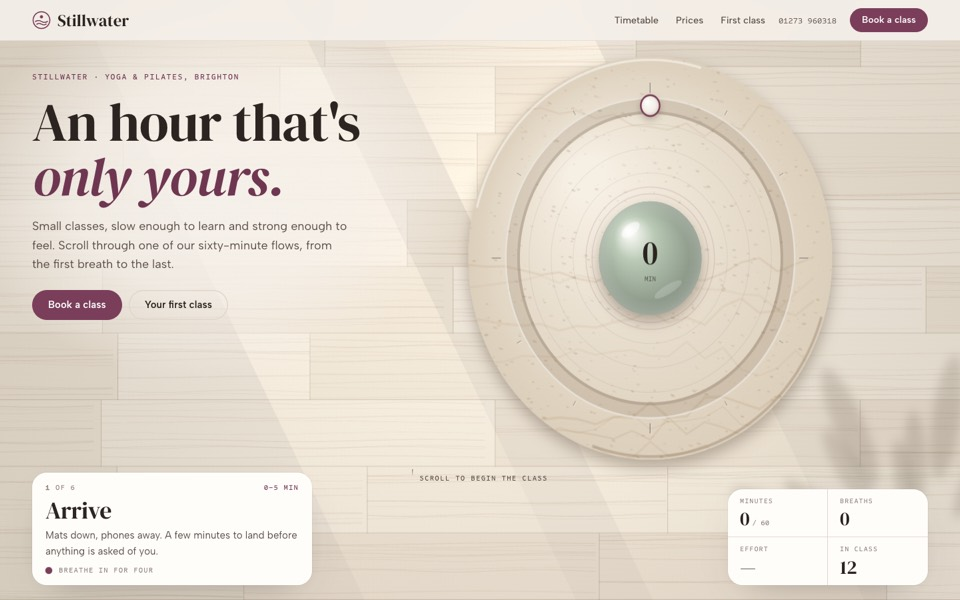
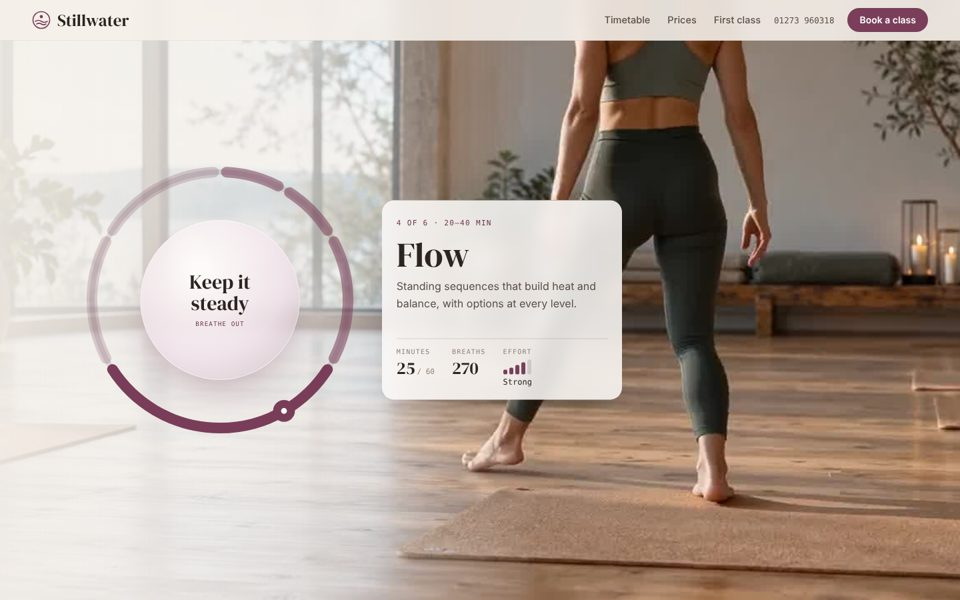
Stillwater redesigned v5: the real class plays beside a breathing orb that swells at each phase's pace, the hour marked round it
Claude-Session: https://claude.ai/code/session_0133g3z4wqTvWj4LLKkZ92ba

diff --git a/design-packages/design/stillwater/template.html b/design-packages/design/stillwater/template.html
@@ -1,11 +1,13 @@
 <!doctype html><html><head><meta charset=utf8><meta name=viewport content="width=device-width,initial-scale=1,viewport-fit=cover"><style>:root{color-scheme:light;box-sizing:border-box;padding-top:env(safe-area-inset-top,0px);padding-bottom:env(safe-area-inset-bottom,0px)}html{scroll-padding-top:env(safe-area-inset-top,0px)}body{margin:0;padding:0;font:14px -apple-system,BlinkMacSystemFont,sans-serif;background:#fff;color:#000}img{max-width:100%}[hidden]:not([hidden=until-found i]){display:none!important}</style></head><body>
 <title>{{business.name}}</title>
+<meta name="description" content="{{hero.lede|attr}}">
 <link rel="preconnect" href="https://fonts.googleapis.com">
 <link rel="preconnect" href="https://fonts.gstatic.com" crossorigin>
 <link href="https://fonts.googleapis.com/css2?family=DM+Serif+Display:ital@0;1&family=Albert+Sans:wght@400;500;600;700&family=Sometype+Mono:wght@400;500&display=swap" rel="stylesheet">
 <style>
-/* Layout: a yoga and pilates studio. One pinned class drawn as a clock: a ring that fills phase by phase (settle,
-   breathe, warm up, flow, peak, rest) with a breathing circle inside and the effort traced round the edge; then what
+/* Layout: a yoga and pilates studio. The real class plays as you scroll (the studio's own video or photos) beside a
+   breathing orb you can follow: it swells and settles at each phase's pace with the teacher's cue inside, the hour
+   marked round it phase by phase; then what
    a new student needs: the timetable with spaces left, passes and prices, and what the first class is like. */
 :root{
   color-scheme:light;
@@ -56,46 +58,62 @@ p{margin:0}
 @media (max-width:980px){.nav ul{display:none}.nav .call{margin-left:auto}}
 @media (max-width:560px){.nav .call{display:none}.nav .btn{margin-left:auto}.brand{font-size:23px}}
 
-/* hero: the class as a clock */
-.hero{position:relative;height:540vh}
+/* hero: the real class, and a breathing orb to follow with the hour marked round it */
+.hero{position:relative;height:560vh}
 .stage{position:sticky;top:0;height:100vh;height:100svh;overflow:hidden;background:var(--sand)}
-#clock{position:absolute;inset:0;width:100%;height:100%;display:block}
-.hero-copy{position:absolute;left:var(--gut);top:calc(env(safe-area-inset-top,0px) + 108px);max-width:520px;z-index:3;display:grid;gap:18px;will-change:transform,opacity}
-.hero-copy::before{content:"";position:absolute;z-index:-1;inset:-110px -150px -90px calc(-1 * var(--gut) - 60px);background:radial-gradient(closest-side,rgba(245,240,234,.96),rgba(245,240,234,.78) 55%,rgba(245,240,234,0));pointer-events:none}
-.hero h1{font-size:clamp(2.8rem,min(5.8vw,9vh),5.6rem)}
-.hero h1 em{font-style:italic;display:block;color:var(--accent-text)}
-.lede{color:var(--ink-2);max-width:42ch;font-size:clamp(16px,1.3vw,18px)}
-.hero .acts{display:flex;gap:10px;flex-wrap:wrap;margin-top:6px}
-.phase{position:absolute;z-index:4;left:var(--gut);bottom:calc(22px + env(safe-area-inset-bottom,0px));width:min(420px,calc(100% - 2*var(--gut)));padding:16px 20px;border-radius:22px;background:var(--sheet);box-shadow:0 22px 56px -30px rgba(43,36,32,.4),0 0 0 1px rgba(43,36,32,.05)}
-.phase .row{display:flex;justify-content:space-between;gap:10px;font:500 11px/1.2 var(--f-mono);letter-spacing:.1em;text-transform:uppercase;color:var(--muted)}
-.phase .min{color:var(--accent-text)}
-.phase h3{font-size:clamp(28px,2.6vw,36px);margin-top:10px}
-.phase p{color:var(--ink-2);font-size:15px;margin-top:6px;min-height:3.2em}
-.breath{display:flex;align-items:center;gap:10px;margin-top:10px;font:500 11px var(--f-mono);letter-spacing:.1em;text-transform:uppercase;color:var(--muted)}
-.breath i{display:block;width:10px;height:10px;border-radius:50%;background:var(--accent);transform:scale(var(--b,1));transition:transform .2s}
-.stats{position:absolute;z-index:4;right:var(--gut);bottom:calc(22px + env(safe-area-inset-bottom,0px));display:grid;grid-template-columns:repeat(2,minmax(0,1fr));margin:0;min-width:300px;border-radius:22px;background:var(--sheet);box-shadow:0 22px 56px -30px rgba(43,36,32,.4),0 0 0 1px rgba(43,36,32,.05);overflow:hidden}
-.stats div{padding:12px 18px;border-right:1px solid var(--line);border-bottom:1px solid var(--line);min-width:0}
-.stats div:nth-child(2n){border-right:0}
-.stats div:nth-child(n+3){border-bottom:0}
-.stats dt{font:500 10.5px/1.2 var(--f-mono);letter-spacing:.1em;text-transform:uppercase;color:var(--muted)}
-.stats dd{margin:6px 0 0;font:400 29px/1 var(--f-display);font-variant-numeric:tabular-nums;white-space:nowrap}
-.stats dd small{font:500 11px var(--f-mono);color:var(--muted);margin-left:4px}
-.hint{position:absolute;z-index:4;left:50%;bottom:calc(170px + env(safe-area-inset-bottom,0px));transform:translateX(-50%);font:500 11px var(--f-mono);letter-spacing:.12em;text-transform:uppercase;color:var(--ink-2);display:flex;align-items:center;gap:10px;pointer-events:none;white-space:nowrap}
-.hint i{display:block;width:1px;height:26px;background:linear-gradient(var(--ink-2),transparent);animation:cue 1.6s ease-in-out infinite}
+.stage .poster,#film{position:absolute;inset:0;width:100%;height:100%;display:block;z-index:0}
+.stage .poster{object-fit:cover}
+.veil{position:absolute;inset:0;z-index:1;pointer-events:none;background:linear-gradient(90deg,rgba(245,240,234,.92) 0%,rgba(245,240,234,.7) 32%,rgba(245,240,234,0) 56%)}
+.hero-copy{position:absolute;left:var(--gut);top:calc(env(safe-area-inset-top,0px) + 108px);max-width:540px;z-index:3;display:grid;gap:18px;will-change:transform,opacity}
+.hero h1{font-size:clamp(2.8rem,min(5.6vw,8.8vh),5.4rem)}
+.hero h1 em{display:block;color:var(--accent-text)}
+.lede{color:var(--ink-2);max-width:44ch;font-size:clamp(16px,1.3vw,18px)}
+.hero .acts{display:flex;gap:10px;flex-wrap:wrap;margin-top:4px}
+.split .w{display:inline-block;overflow:hidden;vertical-align:top;padding-bottom:.22em;margin-bottom:-.14em}
+.split .w{padding-right:.1em;margin-right:-.1em}
+.split .w>i{display:inline-block;font-style:inherit;animation:wrise .9s cubic-bezier(.16,1,.3,1) both}
+@keyframes wrise{from{transform:translateY(108%)}}
+.hint{position:absolute;z-index:4;left:var(--gut);bottom:calc(30px + env(safe-area-inset-bottom,0px));font:400 11px var(--f-mono);letter-spacing:.14em;text-transform:uppercase;color:var(--muted);display:flex;align-items:center;gap:10px;pointer-events:none}
+.hint i{display:block;width:1px;height:22px;background:linear-gradient(var(--muted),transparent);animation:cue 1.6s ease-in-out infinite}
 @keyframes cue{0%{transform:scaleY(.2);transform-origin:top}50%{transform:scaleY(1);transform-origin:top}100%{transform:scaleY(.2);transform-origin:bottom}}
+/* the orb: breathes at the phase's pace; the hour round it, a phase an arc, a bead where the class has got to */
+.orbw{position:absolute;z-index:3;left:clamp(32px,9vw,150px);top:50%;width:min(46vh,400px);aspect-ratio:1;transform:translateY(-50%);opacity:0;transition:opacity .6s}
+.orbw.on{opacity:1}
+.orbw svg{position:absolute;inset:0;width:100%;height:100%;overflow:visible}
+.orbw .tr{fill:none;stroke:rgba(43,36,32,.12);stroke-width:2}
+.orbw .ph{fill:none;stroke:var(--accent);stroke-width:4;stroke-linecap:round;opacity:.22;transition:opacity .4s}
+.orbw .ph.done{opacity:.55}.orbw .ph.now{opacity:1}
+.orbw .bead{fill:var(--sheet);stroke:var(--accent);stroke-width:3}
+.orb{position:absolute;inset:16%;border-radius:50%;display:grid;place-items:center;text-align:center;padding:14%;background:radial-gradient(circle at 38% 32%,rgba(255,253,250,.95),rgba(241,226,234,.82) 58%,rgba(122,62,90,.22));box-shadow:0 30px 80px -30px rgba(122,62,90,.55),inset 0 0 0 1px rgba(255,255,255,.6);backdrop-filter:blur(10px);-webkit-backdrop-filter:blur(10px);transform:scale(var(--b,.8))}
+.orb b{display:block;font:400 clamp(22px,2.4vw,34px)/1.05 var(--f-display);color:var(--ink)}
+.orb span{display:block;margin-top:10px;font:500 10.5px/1.3 var(--f-mono);letter-spacing:.12em;text-transform:uppercase;color:var(--accent-text)}
+/* the phase in hand and the hour so far */
+.ph-say{position:absolute;z-index:3;left:calc(clamp(32px,9vw,150px) + min(46vh,400px) + clamp(24px,3vw,48px));top:50%;transform:translateY(-50%);width:min(360px,30vw);padding:20px 22px;border-radius:18px;background:rgba(255,253,250,.86);backdrop-filter:blur(12px);-webkit-backdrop-filter:blur(12px);box-shadow:0 24px 60px -34px rgba(43,36,32,.5);opacity:0;transition:opacity .5s}
+.ph-say.on{opacity:1}
+.ph-say .k{font:500 11px/1.2 var(--f-mono);letter-spacing:.12em;text-transform:uppercase;color:var(--accent-text)}
+.ph-say h3{font:400 clamp(34px,3.6vw,52px)/1 var(--f-display);margin-top:10px}
+.ph-say p{margin-top:10px;color:var(--ink-2);font-size:16px;min-height:4.6em}
+.ph-say dl{display:flex;gap:26px;margin:16px 0 0;padding-top:14px;border-top:1px solid rgba(43,36,32,.14)}
+.ph-say dt{font:400 10px/1.2 var(--f-mono);letter-spacing:.12em;text-transform:uppercase;color:var(--muted)}
+.ph-say dd{margin:5px 0 0;font:400 26px/1 var(--f-display);font-variant-numeric:tabular-nums;white-space:nowrap}
+.ph-say dd small{font:400 11px var(--f-mono);color:var(--muted);margin-left:3px}
+.effort{display:flex;align-items:flex-end;gap:3px;height:22px}
+.effort i{width:6px;border-radius:2px;background:rgba(43,36,32,.14);transition:background .3s}
+.effort i:nth-child(1){height:30%}.effort i:nth-child(2){height:47%}.effort i:nth-child(3){height:64%}.effort i:nth-child(4){height:82%}.effort i:nth-child(5){height:100%}
+.effort i.on{background:var(--accent)}
+@media (max-width:1100px) and (min-width:821px){.ph-say{left:auto;right:var(--gut);width:300px}}
 @media (max-width:820px){
-  .hero-copy{top:calc(env(safe-area-inset-top,0px) + 82px);max-width:none;right:var(--gut);gap:14px}
+  .veil{background:linear-gradient(180deg,rgba(245,240,234,.92) 0%,rgba(245,240,234,.66) 36%,rgba(245,240,234,0) 52%),linear-gradient(0deg,rgba(245,240,234,.92),rgba(245,240,234,0) 44%)}
+  .hero-copy{top:calc(env(safe-area-inset-top,0px) + 84px);max-width:none;right:var(--gut);gap:14px}
   .hero .acts{display:none}
-  .stats{left:var(--gut);right:var(--gut);min-width:0;grid-template-columns:minmax(0,.85fr) minmax(0,.95fr) minmax(0,1.35fr) minmax(0,.85fr);bottom:calc(214px + env(safe-area-inset-bottom,0px))}
-  .stats div{padding:9px 10px;border-bottom:0}
-  .stats div:nth-child(2n){border-right:1px solid var(--line)}
-  .stats div:last-child{border-right:0}
-  .stats dt{font-size:8.5px;letter-spacing:.04em}
-  .stats dd{font-size:clamp(19px,5.4vw,24px)}
-  .stats dd small{display:none}
-  .phase{bottom:calc(14px + env(safe-area-inset-bottom,0px));padding:14px 18px}
-  .phase p{font-size:14px;min-height:4.6em}
   .hint{display:none}
+  .orbw{left:50%;top:calc(env(safe-area-inset-top,0px) + 76px);width:min(48vw,220px);transform:translateX(-50%)}
+  .ph-say{left:var(--gut);right:var(--gut);top:auto;bottom:calc(14px + env(safe-area-inset-bottom,0px));transform:none;width:auto;padding:14px 16px;border-radius:14px}
+  .ph-say h3{font-size:32px}
+  .ph-say p{font-size:14px;min-height:4.3em}
+  .ph-say dd{font-size:22px}
+  .orb b{font-size:17px}
+  .orb span{font-size:9px}
 }
 
 /* sections */
@@ -196,9 +214,11 @@ footer{background:var(--ink);color:#fff;padding:clamp(70px,9vw,120px) var(--gut)
 </nav>
 
 <main>
-<section class="hero" id="top" aria-label="One class from arriving to rest, scroll to run it">
+<section class="hero" id="top" aria-label="One class from arriving to rest; scroll to run it">
   <div class="stage" id="stage">
-    <canvas id="clock" aria-hidden="true"></canvas>
+{{#if $.film.poster}}    <img class="poster" src="{{$.film.poster|attr}}" alt="" aria-hidden="true">
+{{/if}}    <canvas id="film" role="img" aria-label="A class at {{brand.name|attr}}, from a seated breath to standing poses"></canvas>
+    <div class="veil" aria-hidden="true"></div>
     <div class="hero-copy" id="heroCopy">
       <p class="eyebrow">{{hero.eyebrow}}</p>
       <h1>{{hero.title}} <em>{{hero.titleEm}}</em></h1>
@@ -206,17 +226,19 @@ footer{background:var(--ink);color:#fff;padding:clamp(70px,9vw,120px) var(--gut)
       <div class="acts"><a class="btn" href="#timetable">{{hero.cta}}</a><a class="btn ghost" href="#first">{{hero.cta2}}</a></div>
     </div>
     <div class="hint" id="hint"><i></i>{{hero.hint}}</div>
-    <dl class="stats" id="stats" aria-live="off">
-      <div><dt>Minutes</dt><dd id="sMin">0<small>/ {{class.length}}</small></dd></div>
-      <div><dt>Breaths</dt><dd id="sBreaths">0</dd></div>
-      <div><dt>Effort</dt><dd id="sEffort">—</dd></div>
-      <div><dt>In class</dt><dd id="sPeople">{{class.size}}</dd></div>
-    </dl>
-    <div class="phase" id="phase" aria-live="polite">
-      <div class="row"><span><b id="pNum">1</b> of 6</span><span class="min" id="pMin">{{stages.0.from}}–{{stages.0.to}} min</span></div>
+    <div class="orbw" id="orbw" aria-hidden="true">
+      <svg viewBox="0 0 100 100"><circle class="tr" cx="50" cy="50" r="48"/><g id="arcs"></g><circle class="bead" id="bead" cx="50" cy="2" r="2.6"/></svg>
+      <div class="orb" id="orb"><div><b id="oSay">{{stages.0.cue}}</b><span id="oIn">Breathe in</span></div></div>
+    </div>
+    <div class="ph-say" id="say" aria-live="polite">
+      <span class="k"><span id="pNum">1</span> of 6 · <span id="pMin">{{stages.0.from}}–{{stages.0.to}} min</span></span>
       <h3 id="pTitle">{{stages.0.n}}</h3>
       <p id="pText">{{stages.0.c}}</p>
-      <div class="breath"><i id="pDot"></i><span id="pBreath">{{stages.0.cue}}</span></div>
+      <dl id="stats">
+        <div><dt>Minutes</dt><dd id="sMin">0<small>/ {{class.length}}</small></dd></div>
+        <div><dt>Breaths</dt><dd id="sBreaths">0</dd></div>
+        <div><dt>Effort</dt><dd><span class="effort" id="eff"><i></i><i></i><i></i><i></i><i></i></span></dd><dd id="sEffort" style="font-size:12px;font-family:var(--f-mono);margin-top:6px">—</dd></div>
+      </dl>
     </div>
   </div>
 </section>
@@ -278,124 +300,70 @@ footer{background:var(--ink);color:#fff;padding:clamp(70px,9vw,120px) var(--gut)
 (function(){
 "use strict";
 const RM = matchMedia('(prefers-reduced-motion: reduce)').matches;
-const TOUCH = matchMedia('(pointer:coarse)').matches;let gW=0,gH=0;
+const TOUCH = matchMedia('(pointer:coarse)').matches;
 const $ = s=>document.querySelector(s);
 const clamp=(v,a=0,b=1)=>Math.max(a,Math.min(b,v));
 const lerp=(a,b,t)=>a+(b-a)*t;
 const sm=t=>t*t*(3-2*t);
 const seg=(p,a,b)=>clamp((p-a)/(b-a));
 
-/* ============ THE CLASS (what the hero shows) ============ */
-// six phases: the minutes they cover, how hard they are (1 to 5) and the breath (breaths a minute, and the cue)
+/* ============ THE CLASS ============ */
 const STAGES=[
 {{$.stagesJs|raw}}
 ];
-// the class: its length in minutes, how many in the room, and how effort moves ('flow' rises and falls; 'intervals' work and rest)
 const CLASS={length:{{class.length}},size:{{class.size}},shape:{{class.shape|js}},done:{{class.done|js}}};
-// how each level of effort is named, from 1 to 5
 const EFFORT=['',{{$.effortJs|raw}}];
-const ACCENT='{{A:#7A3E5A}}';
-const HUES=['#B9C9B5','#B9C9B5','#E3C7A0','#E59A7A','#C4677A',ACCENT];
-
-/* ============ GEOMETRY ============ */
-const cv=$('#clock'), ctx=cv.getContext('2d');
-let W=0,H=0,DPR=1,mobile=false,LA=null,LB=null;
-function fit(ax,ay){const r=Math.min(ax[1]-ax[0],ay[1]-ay[0])/2;return{r:r*.82,x:(ax[0]+ax[1])/2,y:(ay[0]+ay[1])/2};}
-function layout(){W=cv.clientWidth;H=cv.clientHeight;DPR=Math.min(devicePixelRatio||1,TOUCH?1.5:2);cv.width=Math.round(W*DPR);cv.height=Math.round(H*DPR);mobile=W<820;
-  const top=Math.max(70,H*.1), st=$('#stats').getBoundingClientRect(), ph=$('#phase').getBoundingClientRect(), stg=$('#stage').getBoundingClientRect();
-  if(mobile){LA=LB=fit([W*.04,W*.96],[top,st.top-stg.top-12]);}
-  else{const cr=copy.offsetLeft+copy.offsetWidth, cb=copy.offsetTop+copy.offsetHeight, low=Math.min(st.top,ph.top)-stg.top;
-    const side=fit([cr+30,W*.97],[H*.12,Math.min(H*.84,low-20)]), under=fit([W*.05,W*.95],[cb+20,low-16]);
-    LA=side.r>=under.r*.8?side:under;LB=fit([W*.08,W*.92],[top,Math.min(st.top,ph.top-30)-stg.top-14]);}}
-
-/* the minute the scroll has reached, stage by stage */
-function minuteAt(p){for(const s of STAGES)if(p<s.w[1])return lerp(s.from,s.to,seg(p,s.w[0],s.w[1]));return CLASS.length;}
 function effortAt(m){// smooth between phases; intervals pulse within the harder phases
   let i=STAGES.findIndex(s=>m<s.to);if(i<0)i=STAGES.length-1;const s=STAGES[i], t=(m-s.from)/((s.to-s.from)||1);
   const prev=STAGES[Math.max(0,i-1)].effort;let e=t<.25&&i>0?lerp(prev,s.effort,sm(t/.25)):s.effort;
   if(CLASS.shape==='intervals'&&s.effort>=3){const k=(m-s.from)%3;e=k<2?s.effort:Math.max(1,s.effort-2.5);}
-  else e+=Math.sin(m*1.7)*.18*(s.effort>1?1:0);
   return e;}
-const ang=m=>-Math.PI/2+m/CLASS.length*Math.PI*2;
 
-/* ============ DRAWING ============ */
-function rngS(seed){let x=seed>>>0||1;return()=>{x^=x<<13;x^=x>>>17;x^=x<<5;return((x>>>0)%10000)/10000;};}
-let FLOOR=null, DISC=null;
-function buildFloor(){const f=document.createElement('canvas');f.width=cv.width;f.height=cv.height;const g=f.getContext('2d');g.setTransform(DPR,0,0,DPR,0,0);const r=rngS(3);
-  g.fillStyle='#EDE4D6';g.fillRect(0,0,W,H);const bh=Math.max(46,Math.min(W,H)/9);
-  for(let row=0;row*bh<H+bh;row++){let x=-r()*300;while(x<W){const L=260+r()*420, v=r();g.fillStyle=v<.5?`rgba(120,90,55,${.03+v*.07})`:`rgba(255,252,245,${(v-.5)*.25})`;g.fillRect(x,row*bh,L,bh);
-    for(let k=0;k<9;k++){g.strokeStyle=`rgba(130,95,60,${.05+r()*.08})`;g.lineWidth=.6+r()*.9;g.beginPath();const yy=row*bh+3+r()*(bh-6);g.moveTo(x,yy);for(let t=0;t<=L;t+=16)g.lineTo(x+t,yy+Math.sin(t/(40+k*7)+k)*1.6);g.stroke();}
-    g.fillStyle='rgba(90,65,40,.18)';g.fillRect(x+L-1,row*bh,1.2,bh);x+=L;}g.fillStyle='rgba(90,65,40,.16)';g.fillRect(0,row*bh+bh-1,W,1.2);}
-  // light from a tall window, falling across the boards
-  g.save();g.globalCompositeOperation='lighter';[[.08,.9],[.38,.9]].forEach(([x0,w0])=>{const x=W*x0;const lg=g.createLinearGradient(x,0,x+W*.35,H);lg.addColorStop(0,'rgba(255,236,200,.0)');lg.addColorStop(.3,'rgba(255,236,200,.08)');lg.addColorStop(1,'rgba(255,236,200,.02)');g.fillStyle=lg;g.beginPath();g.moveTo(x,0);g.lineTo(x+W*.22,0);g.lineTo(x+W*.22+W*.3,H);g.lineTo(x+W*.3,H);g.closePath();g.fill();});g.restore();
-  // a plant's leaves in shadow, soft-edged
-  g.save();g.shadowColor='rgba(70,55,40,.16)';g.shadowBlur=14*DPR;g.shadowOffsetX=-4000*DPR;g.fillStyle='#000';for(let i=0;i<14;i++){const a=-1.2+i*.22+r()*.2, L=H*(.18+r()*.14), bx=W*.96, by=H*.98;const tx=bx+Math.cos(a-Math.PI/2)*L, ty=by+Math.sin(a-Math.PI/2)*L;g.save();g.translate(tx+4000,ty);g.rotate(a);g.beginPath();g.ellipse(0,0,L*.09,L*.36,0,0,7);g.fill();g.restore();}g.restore();
-  const v=g.createRadialGradient(W*.55,H*.45,Math.min(W,H)*.2,W*.55,H*.45,Math.max(W,H)*.75);v.addColorStop(0,'rgba(0,0,0,0)');v.addColorStop(1,'rgba(60,45,30,.12)');g.fillStyle=v;g.fillRect(0,0,W,H);FLOOR=f;}
-function buildDisc(R0){const n=Math.ceil(R0*2.9*DPR), d=document.createElement('canvas');d.width=d.height=n;const g=d.getContext('2d');const c=n/2, R=R0*(mobile?1.16:1.32)*DPR, r=rngS(9);
-  g.save();g.shadowColor='rgba(60,45,30,.35)';g.shadowBlur=R*.08;g.shadowOffsetY=R*.035;g.fillStyle='#E9DFCF';g.beginPath();g.arc(c,c,R,0,7);g.fill();g.restore();
-  g.save();g.beginPath();g.arc(c,c,R,0,7);g.clip();const bg=g.createRadialGradient(c-R*.35,c-R*.4,R*.1,c,c,R);bg.addColorStop(0,'#F6EFE3');bg.addColorStop(1,'#DCCFBB');g.fillStyle=bg;g.fillRect(0,0,n,n);
-  for(let i=0;i<9;i++){g.strokeStyle=`rgba(170,140,100,${.08+r()*.1})`;g.lineWidth=R*(.004+r()*.01);g.beginPath();const y0=c-R+r()*R*2;g.moveTo(c-R,y0);for(let t=0;t<=1;t+=.05)g.lineTo(c-R+t*R*2,y0+Math.sin(t*6+i)*R*.04+t*R*(r()-.5)*.2);g.stroke();}
-  for(let i=0;i<700;i++){const a=r()*6.28, d=Math.sqrt(r())*R, z=R*(.0012+r()*.0045);g.fillStyle=`rgba(140,110,75,${.08+r()*.16})`;g.beginPath();g.ellipse(c+Math.cos(a)*d,c+Math.sin(a)*d,z*2.2,z,r()*.4,0,7);g.fill();}
-  g.strokeStyle='rgba(255,255,255,.5)';g.lineWidth=R*.012;g.beginPath();g.arc(c,c,R*.985,3.4,5.0);g.stroke();g.strokeStyle='rgba(100,75,50,.25)';g.lineWidth=R*.014;g.beginPath();g.arc(c,c,R*.985,.3,1.9);g.stroke();g.restore();DISC={img:d,R0};}
-function ring(c,m,time,k){const {x,y,r}=c, th=r*.11;
-  if(DISC){const sc=r/DISC.R0, n=DISC.img.width/DPR*sc;ctx.drawImage(DISC.img,x-n/2,y-n/2,n,n);}
-  // the track, the five-minute ticks
-  ctx.lineCap='butt';ctx.strokeStyle='rgba(110,85,60,.16)';ctx.lineWidth=th;ctx.beginPath();ctx.arc(x,y,r,0,Math.PI*2);ctx.stroke();ctx.strokeStyle='rgba(80,60,40,.18)';ctx.lineWidth=th*.18;ctx.beginPath();ctx.arc(x,y,r-th*.41,0,Math.PI*2);ctx.stroke();ctx.strokeStyle='rgba(255,255,255,.5)';ctx.lineWidth=th*.12;ctx.beginPath();ctx.arc(x,y,r+th*.44,0,Math.PI*2);ctx.stroke();
-  for(let t=0;t<CLASS.length;t+=5){const a=ang(t), r0=r+th*.75, r1=r+th*(t%15===0?1.35:1.05);ctx.strokeStyle='rgba(255,255,255,.6)';ctx.lineWidth=t%15===0?1.6:1;ctx.beginPath();ctx.moveTo(x+Math.cos(a)*r0+.8,y+Math.sin(a)*r0+.8);ctx.lineTo(x+Math.cos(a)*r1+.8,y+Math.sin(a)*r1+.8);ctx.stroke();ctx.strokeStyle='rgba(60,45,30,.45)';ctx.beginPath();ctx.moveTo(x+Math.cos(a)*r0,y+Math.sin(a)*r0);ctx.lineTo(x+Math.cos(a)*r1,y+Math.sin(a)*r1);ctx.stroke();
-}
-  // each phase fills in its colour as the class reaches it
-  STAGES.forEach((s,i)=>{if(m<=s.from)return;const a0=ang(s.from)+.012, a1=ang(Math.min(m,s.to))-(m>=s.to?.012:0);if(a1<=a0)return;ctx.strokeStyle=shade(HUES[s.effort],-.18);ctx.lineWidth=th*.92;ctx.beginPath();ctx.arc(x,y,r,a0,a1);ctx.stroke();ctx.strokeStyle=HUES[s.effort];ctx.lineWidth=th*.66;ctx.beginPath();ctx.arc(x,y,r-th*.08,a0,a1);ctx.stroke();ctx.strokeStyle='rgba(255,255,255,.45)';ctx.lineWidth=th*.12;ctx.beginPath();ctx.arc(x,y,r-th*.22,a0+.01,a1-.01);ctx.stroke();});
-  // phase names outside the ring, once reached
-  if(!mobile)STAGES.forEach(s=>{if(m<s.from+.5)return;const a=ang((s.from+s.to)/2), rr=r+th*3.1;ctx.globalAlpha=k*clamp((m-s.from)/2);ctx.fillStyle='#2B2420';ctx.font=`400 ${Math.round(Math.max(14,r*.075))}px "DM Serif Display",serif`;ctx.textAlign=Math.cos(a)>.25?'left':Math.cos(a)<-.25?'right':'center';ctx.textBaseline='middle';ctx.fillText(s.n,x+Math.cos(a)*rr,y+Math.sin(a)*rr);ctx.globalAlpha=1;});
-  ctx.textAlign='left';ctx.textBaseline='alphabetic';
-  // the effort, traced inside the ring
-  const inner=r-th*1.1, span=r*.32;ctx.strokeStyle='rgba(43,36,32,.08)';ctx.lineWidth=1;[1,3,5].forEach(e=>{ctx.beginPath();ctx.arc(x,y,inner-span*(1-(e-1)/4),0,Math.PI*2);ctx.stroke();});
-  if(m>0){ctx.beginPath();const steps=Math.max(2,Math.round(m*(CLASS.shape==='intervals'?12:4)));for(let i=0;i<=steps;i++){const mm=m*i/steps, a=ang(mm), rr=inner-span*(1-(effortAt(mm)-1)/4);i?ctx.lineTo(x+Math.cos(a)*rr,y+Math.sin(a)*rr):ctx.moveTo(x+Math.cos(a)*rr,y+Math.sin(a)*rr);}
-    ctx.strokeStyle=ACCENT;ctx.lineWidth=Math.max(1.5,r*.012);ctx.lineJoin='round';ctx.stroke();ctx.strokeStyle='rgba(255,255,255,.35)';ctx.lineWidth=Math.max(.6,r*.004);ctx.stroke();}
-  // the hand: where the class is now
-  const a=ang(m), hx=x+Math.cos(a)*r, hy=y+Math.sin(a)*r;ctx.save();ctx.shadowColor='rgba(60,45,30,.4)';ctx.shadowBlur=th*.5*DPR;ctx.shadowOffsetY=th*.18*DPR;const pg=ctx.createRadialGradient(hx-th*.22,hy-th*.25,0,hx,hy,th*.62);pg.addColorStop(0,'#FFFFFF');pg.addColorStop(.7,'#F3EEE6');pg.addColorStop(1,'#D8CFC2');ctx.fillStyle=pg;ctx.beginPath();ctx.arc(hx,hy,th*.62,0,7);ctx.fill();ctx.restore();ctx.strokeStyle=ACCENT;ctx.lineWidth=2.5;ctx.beginPath();ctx.arc(hx,hy,th*.62,0,7);ctx.stroke();}
-function orb(c,m,time,breath,done){const {x,y,r}=c;const i=Math.max(0,STAGES.findIndex(s=>m<s.to));const s=STAGES[i<0?STAGES.length-1:i];
-  const base=r*.36, b=RM?0:breath, rr=base*(1+.14*b);
-  const hue=HUES[Math.round(clamp(effortAt(m),1,5))];
-  ctx.save();ctx.shadowColor='rgba(60,45,30,.35)';ctx.shadowBlur=rr*.25*DPR;ctx.shadowOffsetY=rr*.12*DPR;ctx.fillStyle=shade(hue,-.2);ctx.beginPath();ctx.arc(x,y,rr,0,7);ctx.fill();ctx.restore();
-  const g=ctx.createRadialGradient(x-rr*.42,y-rr*.48,rr*.04,x-rr*.1,y-rr*.1,rr*1.05);g.addColorStop(0,'#FFFDFA');g.addColorStop(.35,hue);g.addColorStop(1,shade(hue,-.28));ctx.fillStyle=g;ctx.beginPath();ctx.arc(x,y,rr,0,7);ctx.fill();
-  {const rim=ctx.createRadialGradient(x,y,rr*.75,x,y,rr);rim.addColorStop(0,'rgba(255,255,255,0)');rim.addColorStop(1,'rgba(255,255,255,.22)');ctx.fillStyle=rim;ctx.beginPath();ctx.arc(x,y,rr,0,7);ctx.fill();ctx.save();ctx.beginPath();ctx.arc(x,y,rr,0,7);ctx.clip();ctx.fillStyle='rgba(255,255,255,.55)';ctx.beginPath();ctx.ellipse(x-rr*.38,y-rr*.5,rr*.2,rr*.1,-.6,0,7);ctx.fill();ctx.fillStyle='rgba(255,255,255,.18)';ctx.beginPath();ctx.ellipse(x+rr*.35,y+rr*.55,rr*.3,rr*.08,-.5,0,7);ctx.fill();ctx.restore();}
-  ctx.strokeStyle=`{{A:122,62,90}}${(.12+.1*b).toFixed(3)})`;ctx.lineWidth=1.5;for(let k=1;k<=2;k++){ctx.beginPath();ctx.arc(x,y,rr*(1+.12*k+.05*b),0,7);ctx.stroke();}
-  const light=effortAt(m)>=3.5;ctx.fillStyle=light?'#FFFDFA':'#2B2420';ctx.textAlign='center';ctx.textBaseline='middle';ctx.font=`400 ${Math.round(base*.62)}px "DM Serif Display",serif`;ctx.fillText(String(Math.floor(m)),x,y-base*.05);
-  ctx.font=`500 ${Math.max(10,Math.round(base*.13))}px "Sometype Mono",monospace`;ctx.fillStyle=light?'rgba(255,253,250,.75)':'rgba(43,36,32,.6)';ctx.fillText(done?CLASS.done.toUpperCase():'MIN',x,y+base*.38,base*1.6);ctx.textAlign='left';ctx.textBaseline='alphabetic';}
-function shade(hex,k){const n=parseInt(hex.slice(1),16);const f=v=>Math.round(k>0?v+(255-v)*k:v*(1+k));return`rgb(${f(n>>16&255)},${f(n>>8&255)},${f(n&255)})`;}
+/* ============ THE FILM ============ */
+const hero=$('#top'), copy=$('#heroCopy'), hint=$('#hint'), orbw=$('#orbw'), orb=$('#orb'), say=$('#say');
+const STILL=/[?&]still\b/.test(location.search), FLAT=RM||STILL;
+if(FLAT)document.documentElement.classList.add('flat');
+{{$.film.runtime|raw}}
+const film=SRFilm($('#film'),{{$.film.json|raw}},{flat:FLAT,fx:.62,fy:.5});
+let inFrame=false;try{inFrame=window.self!==window.top}catch(e){inFrame=true}
+let AUTO=inFrame&&scrollY<1&&!FLAT;
+if(AUTO)addEventListener('scroll',()=>{if(AUTO&&scrollY>=1){AUTO=false;film.poke()}},{passive:true});
 
-/* ============ HUD ============ */
+/* ============ THE HOUR ============ */
+// an arc a phase round the orb, from the minute it starts to the minute it ends, with a small gap between
+const L=CLASS.length||60, R=48, pt=a=>[50+R*Math.sin(a),50-R*Math.cos(a)];
+$('#arcs').innerHTML=STAGES.map(s=>{const a0=s.from/L*Math.PI*2+.05, a1=Math.max(a0+.01,s.to/L*Math.PI*2-.05), [x0,y0]=pt(a0), [x1,y1]=pt(a1);
+  return `<path class="ph" d="M${x0.toFixed(2)} ${y0.toFixed(2)}A${R} ${R} 0 ${a1-a0>Math.PI?1:0} 1 ${x1.toFixed(2)} ${y1.toFixed(2)}"/>`;}).join('');
+const arcs=[...$('#arcs').children], bead=$('#bead'), bars=[...$('#eff').children];
 let shown=-1;
-function hud(p,m,breath){let idx=0;STAGES.forEach((s,i)=>{if(p>=s.w[0])idx=i;});const s=STAGES[idx];
-  if(idx!==shown){shown=idx;$('#pNum').textContent=idx+1;$('#pTitle').textContent=s.n;$('#pText').textContent=s.c;$('#pMin').textContent=`${s.from}–${s.to} min`;$('#pBreath').textContent=s.cue;}
-  $('#pDot').style.setProperty('--b',(1+.5*breath).toFixed(2));
-  $('#sMin').innerHTML=`${Math.floor(m)}<small>/ ${CLASS.length}</small>`;
-  let br=0;for(const st of STAGES){if(m<=st.from)break;br+=(Math.min(m,st.to)-st.from)*st.bpm;}$('#sBreaths').textContent=Math.round(br);
-  $('#sEffort').textContent=m>0?EFFORT[Math.round(clamp(effortAt(m),1,5))]:'—';$('#sPeople').textContent=CLASS.size;}
 
 /* ============ FRAME ============ */
-const hero=$('#top'), copy=$('#heroCopy'), hint=$('#hint');
 let cur=0;const t0=performance.now();
-function frame(p,time){ctx.setTransform(1,0,0,1,0,0);if(!FLOOR||FLOOR.width!==cv.width||FLOOR.height!==cv.height){buildFloor();buildDisc(Math.max(LA.r,LB.r));}ctx.drawImage(FLOOR,0,0);ctx.setTransform(DPR,0,0,DPR,0,0);
-  const k=mobile?seg(p,.01,.05):seg(p,.06,.12), mv=sm(mobile?k:seg(p,.05,.14));
-  const c={x:lerp(LA.x,LB.x,mv),y:lerp(LA.y,LB.y,mv),r:lerp(LA.r,LB.r,mv)};
-  const m=minuteAt(p);const i=Math.max(0,STAGES.findIndex(s=>m<s.to));const bpm=STAGES[i].bpm||8;
-  const breath=RM?0:Math.sin(time*Math.PI*2*bpm/60);
-  ctx.globalAlpha=mobile?.25+.75*k:1;ring(c,m,time,mobile?1:1);orb(c,m,time,breath,p>=.995);ctx.globalAlpha=1;
-  copy.style.opacity=(1-k).toFixed(3);copy.style.transform=`translateY(${(-k*24).toFixed(1)}px)`;copy.style.visibility=k>=1?'hidden':'visible';
-  hint.style.opacity=(1-seg(p,0,.03)).toFixed(3);hud(p,m,breath);}
 function target(){const r=hero.getBoundingClientRect();return clamp(-r.top/(r.height-innerHeight));}
-// phones (Safari above all) give up on pages that redraw and re-make big canvases too often: draw only while the
-// hero is on screen, at a gentler rate while nothing is scrolling, and lay out again only when the canvas's size changes
+const mobile=()=>innerWidth<820;
+function frame(p,time){
+  const P=FLAT?1:p;
+  film.draw(FLAT?1:AUTO?(time/Math.max(4,film.seconds()))%1:clamp(seg(P,.02,.9)),time);
+  const k=mobile()?seg(p,.01,.05):seg(p,.06,.12);copy.style.opacity=(1-k).toFixed(3);copy.style.transform=`translateY(${(-k*24).toFixed(1)}px)`;copy.style.visibility=k>=1?'hidden':'visible';
+  hint.style.opacity=(1-seg(p,0,.03)).toFixed(3);const on=FLAT||k>=1;orbw.classList.toggle('on',on);say.classList.toggle('on',on);
+  let idx=0;STAGES.forEach((s,i)=>{if(P>=s.w[0])idx=i;});const s=STAGES[idx];
+  if(idx!==shown){shown=idx;$('#pNum').textContent=idx+1;$('#pTitle').textContent=s.n;$('#pText').textContent=s.c;$('#pMin').textContent=`${s.from}–${s.to} min`;$('#oSay').textContent=s.cue;}
+  const m=P>=1?L:lerp(s.from,s.to,seg(P,s.w[0],s.w[1]));
+  arcs.forEach((el,i)=>{el.classList.toggle('done',i<idx);el.classList.toggle('now',i===idx);});
+  const a=m/L*Math.PI*2, [bx,by]=pt(a);bead.setAttribute('cx',bx.toFixed(2));bead.setAttribute('cy',by.toFixed(2));
+  // the orb breathes in real time at the phase's breaths a minute: in on the swell, out as it settles
+  const bpm=Math.max(3,s.bpm||6), ph=RM?0:(time*bpm/60)%1, swell=ph<.4?sm(ph/.4):1-sm((ph-.4)/.6);
+  orb.style.setProperty('--b',(FLAT?.92:.78+.2*swell).toFixed(3));$('#oIn').textContent=P>=1&&CLASS.done?CLASS.done:FLAT?`${bpm} breaths a minute`:ph<.4?'Breathe in':'Breathe out';
+  $('#sMin').innerHTML=`${Math.floor(m)}<small>/ ${L}</small>`;
+  let br=0;for(const st of STAGES){if(m<=st.from)break;br+=(Math.min(m,st.to)-st.from)*st.bpm;}$('#sBreaths').textContent=Math.round(br);
+  const e=m>0?Math.round(clamp(effortAt(m),1,5)):0;bars.forEach((b,i)=>b.classList.toggle('on',i<e));$('#sEffort').textContent=e?EFFORT[e]:'—';
+}
 let gLast=-1e9,gForce=90;
-addEventListener('resize',()=>{gForce=30;});if(document.fonts&&document.fonts.ready)document.fonts.ready.then(()=>{gForce=30;});
-function gate(now){const r=cv.getBoundingClientRect();if(r.bottom<=0||r.top>=innerHeight)return true;if(gForce>0){gForce--;gLast=now;return false;}
-  if(Math.abs(target()-cur)>.0004){gLast=now;return false;}if(RM||now-gLast<(TOUCH?50:33))return true;gLast=now;return false;}
+addEventListener('resize',()=>{gForce=30;film.size();});if(document.fonts&&document.fonts.ready)document.fonts.ready.then(()=>{gForce=30;});
+// the orb keeps breathing while the page is still, so the frame is drawn every time while the hero is on screen
+function gate(now){if(AUTO)return false;const r=$('#stage').getBoundingClientRect();if(r.bottom<=0||r.top>=innerHeight)return true;if(gForce>0){gForce--;gLast=now;return false;}
+  if(Math.abs(target()-cur)>.0004){gLast=now;return false;}if(RM)return true;if(now-gLast<(TOUCH?50:33))return true;gLast=now;return false;}
 function loop(now){if(gate(now)){requestAnimationFrame(loop);return;}const time=(now-t0)/1000, t=target();cur=RM?t:cur+(t-cur)*.14;if(Math.abs(t-cur)<.0004)cur=t;frame(cur,RM?0:time);requestAnimationFrame(loop);}
-layout();
-let rz;addEventListener('resize',()=>{clearTimeout(rz);rz=setTimeout(()=>{const w=cv.clientWidth,h=cv.clientHeight;if(w===gW&&h===gH)return;gW=w;gH=h;layout();},120);});
-if(document.fonts&&document.fonts.ready)document.fonts.ready.then(layout);
 requestAnimationFrame(loop);
 })();
 </script>
@@ -464,4 +432,14 @@ week();calc();
 })();
 </script>
 
+<script>
+/* the title arrives word by word */
+(function(){if(matchMedia('(prefers-reduced-motion: reduce)').matches||/[?&]still\b/.test(location.search))return;const h=document.querySelector('[data-split]')||document.querySelector('main h1:not(.sr)');if(!h)return;let k=0;
+ // each word in its own clipped box; a block inside the title (a second line) keeps its place and has its words split too
+ const unit=(box,el)=>{const w=document.createElement('span');w.className='w';el.style.animationDelay=(150+k++*80)+'ms';w.appendChild(el);box.appendChild(w)};
+ const split=box=>{const parts=[...box.childNodes],blk=parts.map(n=>n.nodeType===1&&getComputedStyle(n).display==='block');box.textContent='';
+  parts.forEach((n,j)=>{if(n.nodeType===3)n.textContent.split(/(\s+)/).forEach(x=>{if(!x)return;if(/^\s+$/.test(x)){box.appendChild(document.createTextNode(' '));return}const i=document.createElement('i');i.textContent=x;unit(box,i)});
+   else if(n.nodeType===1){if(blk[j]){box.appendChild(n);if(n.children.length===0)split(n);return}const i=document.createElement('i');i.appendChild(n);unit(box,i)}});};
+ split(h);h.classList.add('split')})();
+</script>
 </body></html>

diff --git a/design-packages/design/stillwater/hooks.js b/design-packages/design/stillwater/hooks.js
@@ -5,6 +5,7 @@
 'use strict';
 const { FILTERS } = require('../../engine/template');
 const js = FILTERS.js;
+const film = require('../../engine/film');
 
 const WINDOWS = ['[0,.12]', '[.12,.26]', '[.26,.44]', '[.44,.68]', '[.68,.86]', '[.86,1]'];
 const num = (n) => String(+(+n).toFixed(2)).replace(/^0\./, '.');
@@ -15,6 +16,7 @@ function derive(c) {
     tel: c.contact.phone.replace(/[^\d+]/g, ''),
     businessSaid: c.business.name.replace(/\s*&\s*/g, ' and '),
     brandSaid: c.brand.name.replace(/\s*&\s*/g, ' and '),
+    film: film.derive(c, null, [122, 62, 90]),
     stagesJs: c.stages.map((s, i) => ` {n:${js(s.n)},c:${js(s.c)},cue:${js(s.cue)},from:${s.from},to:${s.to},effort:${s.effort},bpm:${s.bpm},w:${WINDOWS[i]}}`).join(',\n'),
     effortJs: c.class.effort.map(js).join(','),
     typesJs: c.timetable.types.map(js).join(','),
